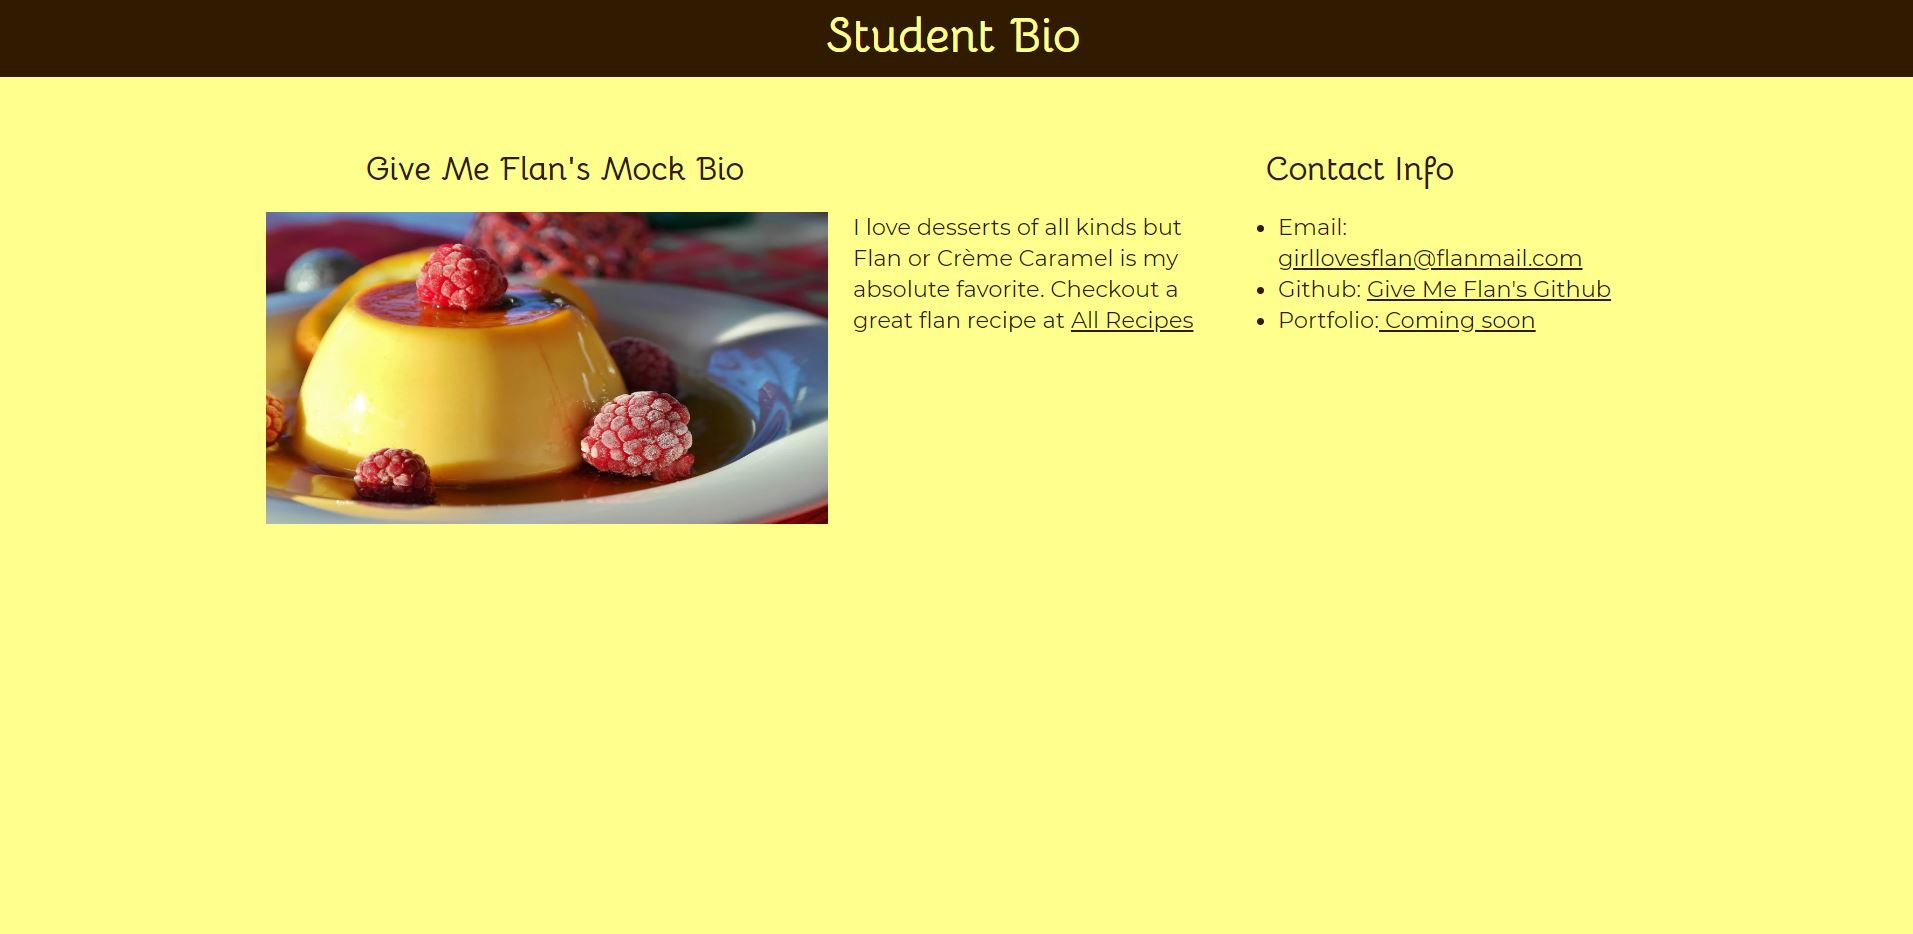
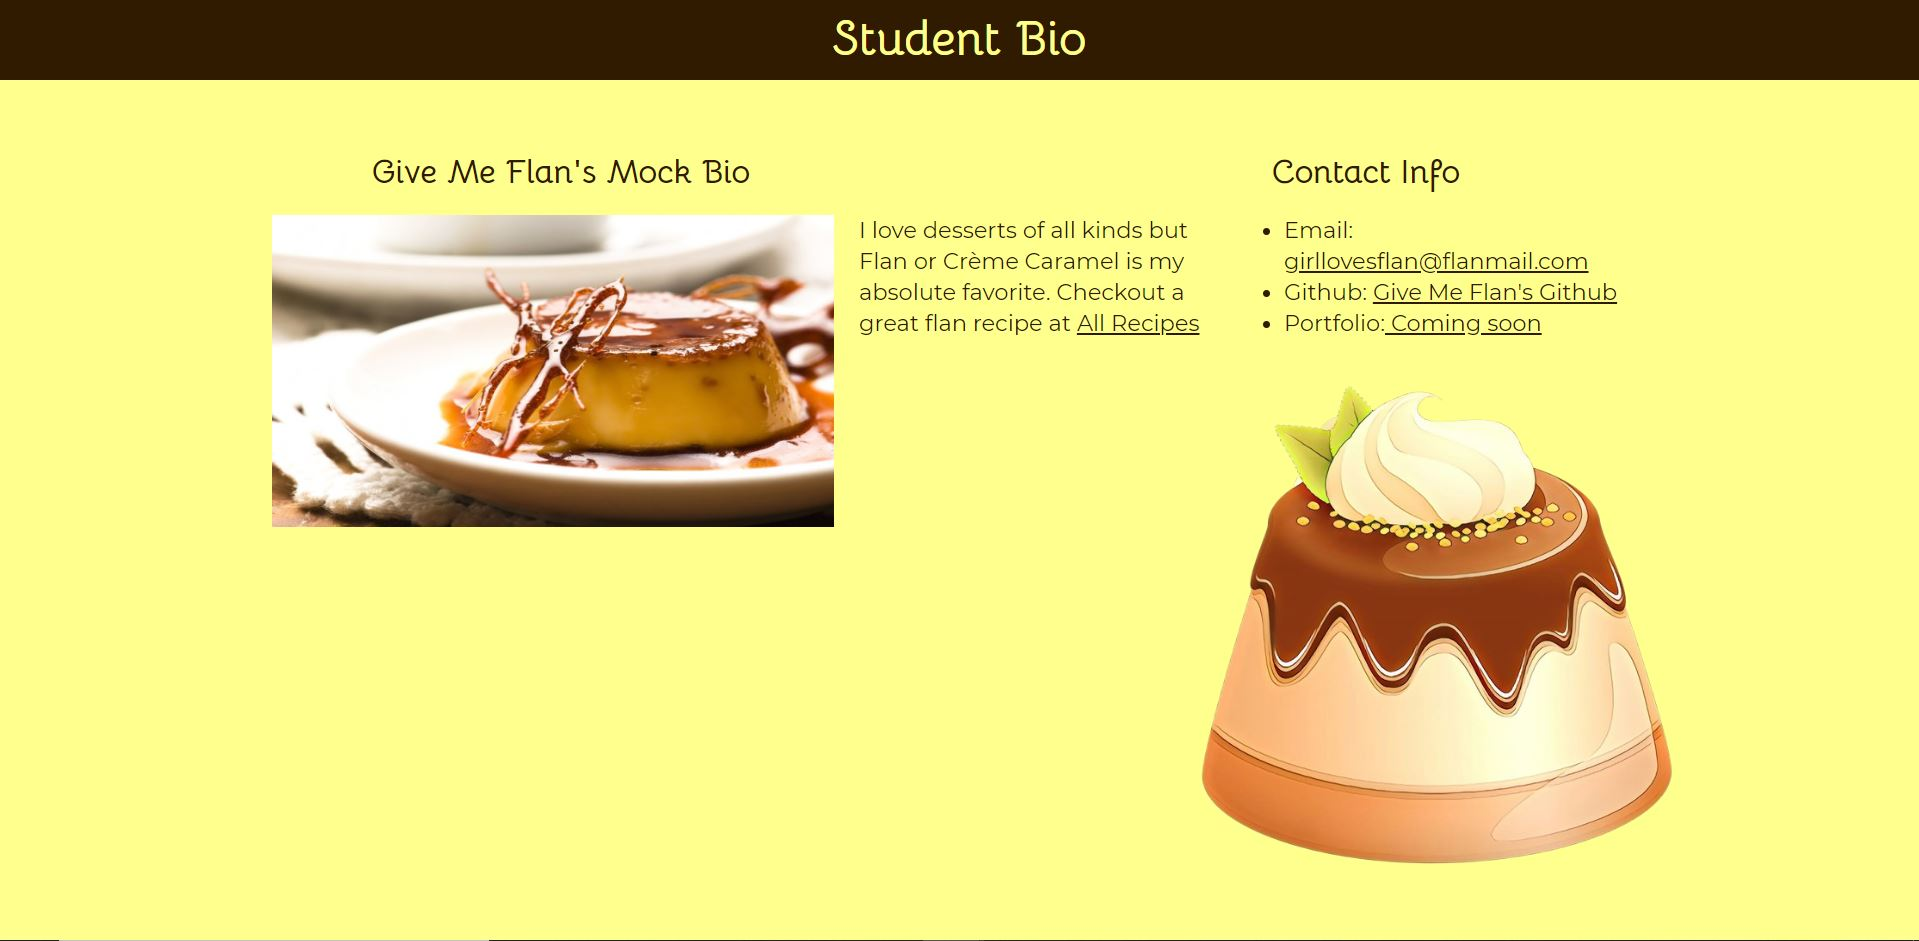
replaced picture on student bio exercise and added png

diff --git a/student_bio_remake.html b/student_bio_remake.html
@@ -18,9 +18,13 @@ This exercise also uses CSS and has a stylesheet.-->
     <div class="page-container">
         <section id="bio-section">
             <h2 id="flan-header"> Give Me Flan's Mock Bio</h2>
-            <a href="https://www.allrecipes.com/recipe/20979/spanish-flan/" target="_blank">
+            <!-- <a href="https://www.allrecipes.com/recipe/20979/spanish-flan/" target="_blank">
                 <img id="bio-image" src="https://cdn.pixabay.com/photo/2017/01/06/17/18/caramel-1958358_960_720.jpg"
                     alt="flan picture" height="250px" width="450px">
+            </a> -->
+            <a href="https://www.allrecipes.com/recipe/20979/spanish-flan/" target="_blank">
+                <img id="bio-image" src="assets/flan-sugar.jpg" alt="flan picture" height="350px" width="450px">
+
 
             </a>
             <p>

diff --git a/assets/style.css b/assets/style.css
@@ -71,9 +71,13 @@ li {
 
 body {
     background-color: #ffff8d;
-    background-image: url("brown-dot.png");
+    background-image: url("flan.png");
     background-repeat: no-repeat;
-    background-size: cover;
+    background-size: 400px 400px;
+    /* background-position: bottom right; */
+    background-position: 950px 300px;
+    background-attachment: fixed;
+    /* background-size: cover; */
     margin: 0;
     padding: 0;
     line-height: 25px;
